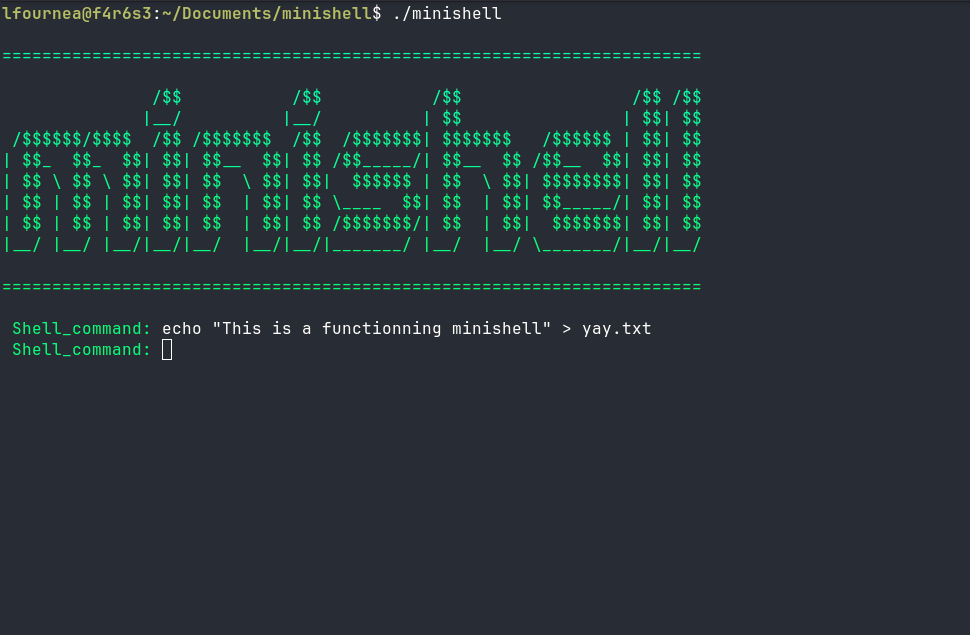
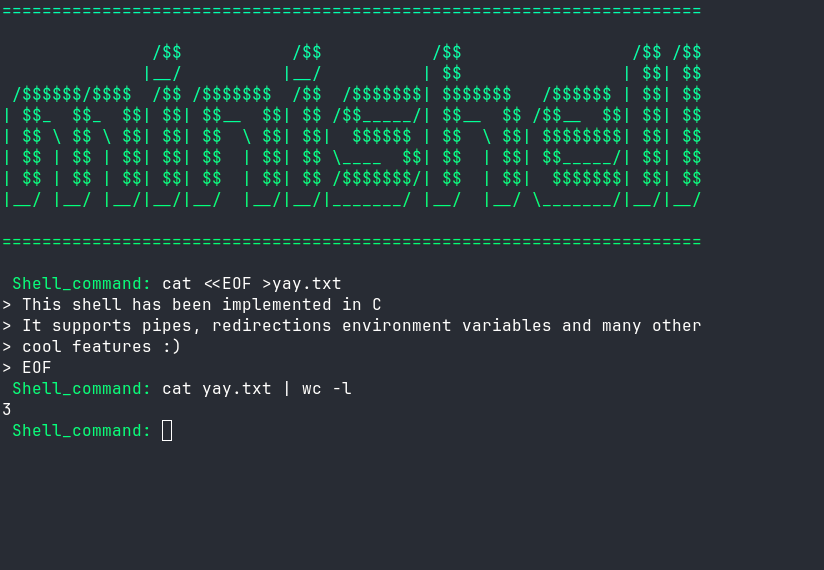
save images

diff --git a/index.html b/index.html
@@ -100,10 +100,11 @@
                     class="project-card project-card-large"
                 >
 
-                    <div class="project-image placeholder">
-                        <span>IMAGE PLACEHOLDER</span>
-                    </div>
-
+		    <img
+		        src="images/personal-blog.png"
+		        alt="Personal Blog"
+		        class="project-image"
+		    >
                     <div class="project-meta">
 
                         <span class="project-number">
@@ -141,10 +142,11 @@
                     href="projects/raytracer.html"
                     class="project-card"
                 >
-
-                    <div class="project-image placeholder">
-                        <span>IMAGE PLACEHOLDER</span>
-                    </div>
+		    <img
+		        src="images/raytracer.png"
+		        alt="miniRT raytracer"
+		        class="project-image"
+		    >
 
                     <div class="project-meta">
 
